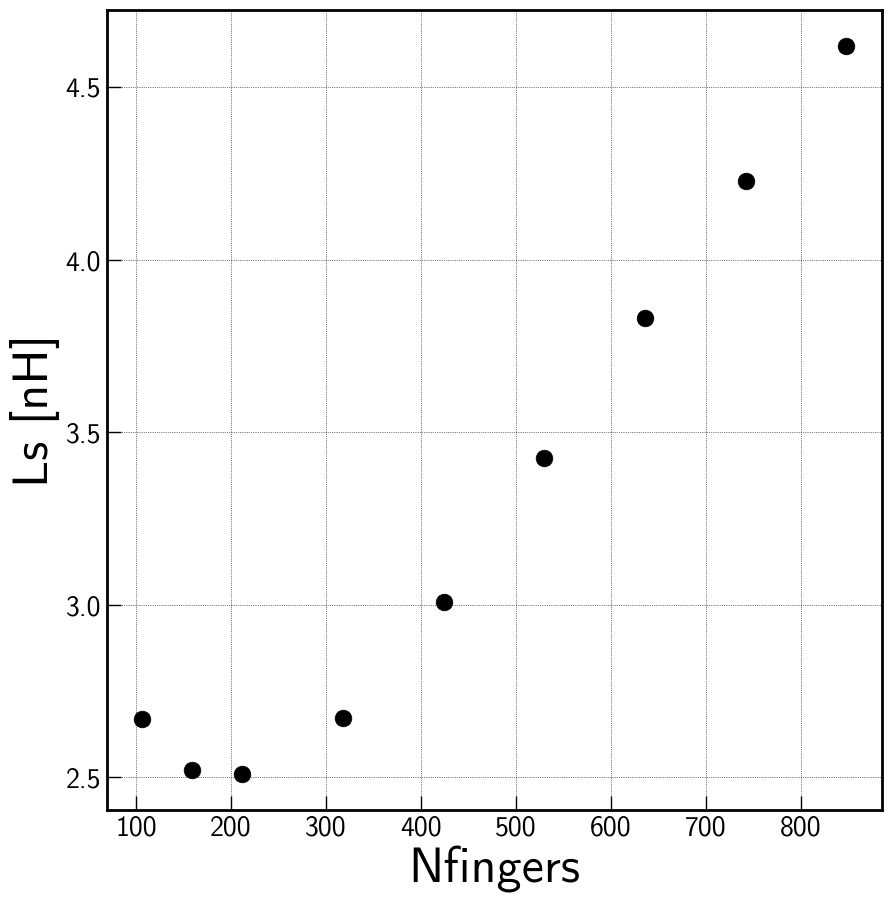
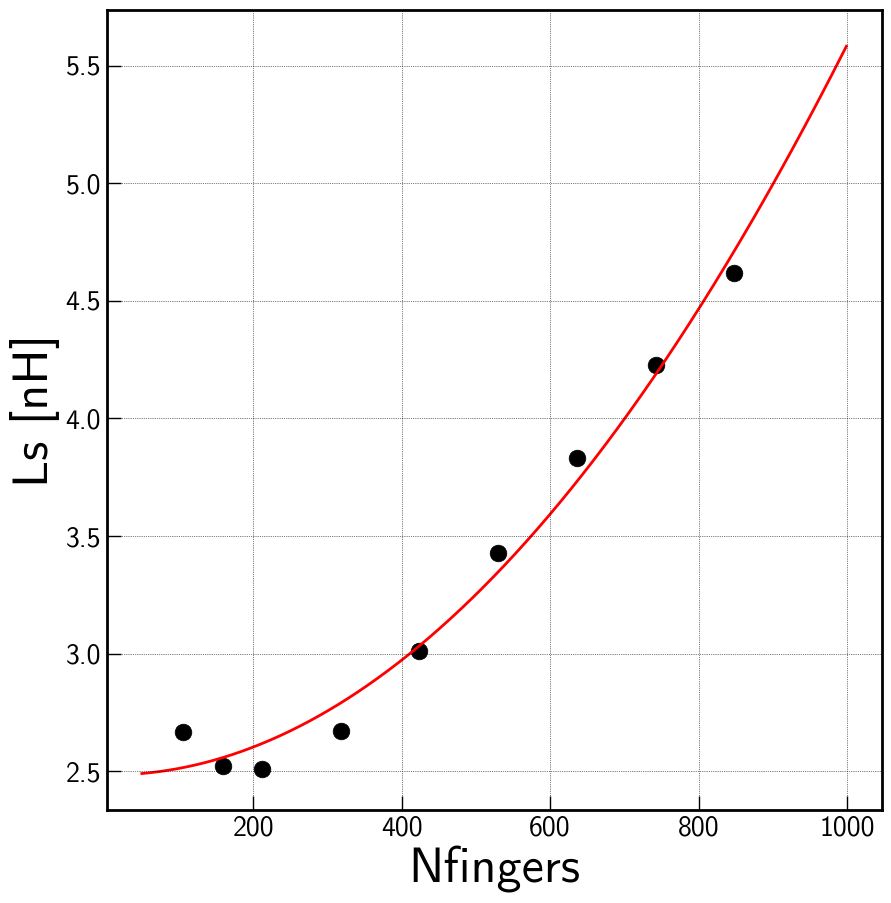
quadratic fit for the inductance

diff --git a/code/TKIDModule_extractQcsfromfullresosims.py b/code/TKIDModule_extractQcsfromfullresosims.py
@@ -790,7 +790,7 @@ if __name__=="__main__":
     plt.ylabel('Cs [pF]')
     plt.savefig('Cs_vs_frequency.png')
 
-    p = np.polyfit(Nfingers, Cs/pF, 1)
+    p = np.polyfit(Nfingers, Cs/pF, 2)
     print (p)
     Cfine = np.polyval(p, Nfine)
     plt.figure()
@@ -809,9 +809,12 @@ if __name__=="__main__":
     plt.ylabel('Ls [nH]')
     plt.savefig('Lpar_vs_frequency.png')
 
+    p = np.polyfit(Nfingers, Ls/nH, 2)
+    print (p)
+    Lfine = np.polyval(p, Nfine)
     plt.figure()
     plt.plot(Nfingers, Ls/nH, 'ko', ls='None', ms=12)
-    #plt.semilogy(Nfine, Qcfine, 'r-')
+    plt.plot(Nfine, Lfine, 'r-')
     plt.grid()
     plt.xlabel('Nfingers')
     plt.ylabel('Ls [nH]')
